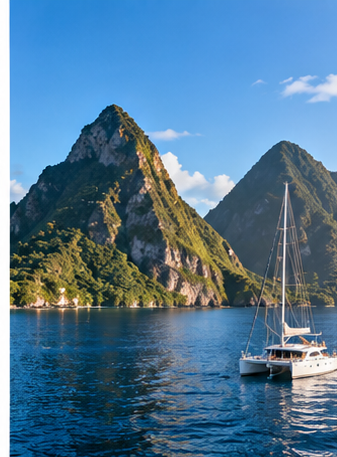
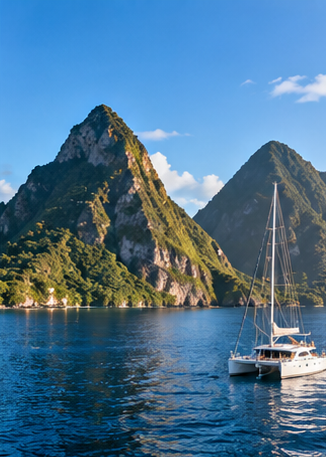
Day by day: the nine route photos; DAY 04 is New Year on board
- dayPhotos point to public/images/day-01…09 with a per-photo object-position
- Trimmed the collage borders left on seven of the uploaded files (white edges, a strip of the
  neighbouring frame on days 07–09); day 04 resized from 1086×1448 (2.4 MB) to 800×1067
- DAY 04: 'Мюстик · Новый год на яхте' / 'Mustique · New Year on board', no Basil's Bar

Claude-Session: https://claude.ai/code/session_01SRdBNBJy8fbF7w3tHPZFpk

Changed region(s): [[0.0, 0.0, 0.9816, 1.0], [0.8589, 0.1532, 0.8896, 0.1838], [0.2761, 0.7046, 0.3067, 0.7352]]

diff --git a/lib/dictionaries/ru.ts b/lib/dictionaries/ru.ts
@@ -431,7 +431,7 @@ export const ru: Dictionary = {
         { place: 'Мартиника · Ле-Марен', date: '28 декабря 2026', text: 'Прибытие на Мартинику, размещение на яхте в марине Ле-Марен. Знакомство с экипажем и приветственный ужин в ресторане.' },
         { place: 'Сент-Люсия · Родни-Бей и Питоны', date: '29 декабря 2026', text: 'Первый морской переход к Сент-Люсии. Остановка в Родни-Бей, затем продолжение путешествия к знаменитым вулканическим вершинам Питонам.' },
         { place: 'Сент-Винсент · Валлилабу', date: '30 декабря 2026', text: 'Переход к острову Сент-Винсент. Прибытие в живописную бухту Валлилабу, окружённую тропической зеленью.' },
-        { place: 'Мюстик · Basil’s Bar', date: '31 декабря 2026', text: 'Прибытие на остров Мюстик. Свободное время на острове и встреча Нового года в знаменитом Basil’s Bar.' },
+        { place: 'Мюстик · Новый год на яхте', date: '31 декабря 2026', text: 'Встречаем Новый год на борту катамарана в атмосфере тропического праздника. Игристое, тёплый карибский вечер и незабываемые моменты в кругу близких по духу людей.' },
         { place: 'Мюстик → Тобаго-Кейс', date: '1 января 2027', text: 'Начало нового года на Мюстике. После обеда — морской переход к островам Тобаго-Кейс, известным своими бирюзовыми лагунами.' },
         { place: 'Тобаго-Кейс', date: '2 января 2027', text: 'Полный свободный день среди небольших островов, белоснежных пляжей и прозрачных вод Карибского моря. Отдых и знакомство с природой архипелага.' },
         { place: 'Сент-Винсент · Валлилабу', date: '3 января 2027', text: 'Обратный переход к Сент-Винсенту. Возвращение в бухту Валлилабу и отдых после морского перехода.' },

diff --git a/lib/caribbean.ts b/lib/caribbean.ts
@@ -20,20 +20,20 @@ export const routeMapImage: { src: string; width: number; height: number } | nul
 }
 
 /**
- * Photos of the day cards, in day order (`caribbean.days.items`). Temporary shots from the site
- * matched to each stop's mood (the same place keeps the same photo); `null` shows a neutral slot
- * until a photo of that location is added. Replace a path here: the component does not change.
+ * Photos of the day cards, in day order (`caribbean.days.items`). `position` is the CSS
+ * object-position that keeps the subject in frame when the card crops the photo (square on desktop,
+ * portrait on phones). Replace a file or a path here: the component does not change.
  */
-export const dayPhotos: (string | null)[] = [
-  '/images/caribbean-hero.png', // 1 Martinique · Le Marin
-  null, // 2 Saint Lucia · Rodney Bay and The Pitons
-  '/images/hero-sailing.png', // 3 Saint Vincent · Wallilabou Bay (the passage)
-  '/images/gallery-deck.png', // 4 Mustique · New Year's Eve
-  '/images/gallery-helm.png', // 5 Mustique → Tobago Cays (the passage)
-  '/images/gallery-reef.png', // 6 Tobago Cays
-  '/images/hero-sailing.png', // 7 Saint Vincent · Wallilabou Bay
-  null, // 8 Saint Lucia · The Pitons
-  '/images/caribbean-hero.png', // 9 Martinique · Le Marin
+export const dayPhotos: ({ src: string; position?: string } | null)[] = [
+  { src: '/images/day-01-martinique-le-marin.png', position: '50% 55%' },
+  { src: '/images/day-02-saint-lucia-pitons.png', position: '50% 40%' },
+  { src: '/images/day-03-saint-vincent-wallilabou.png', position: '50% 60%' },
+  { src: '/images/day-04-mustique-new-year.png', position: '50% 45%' },
+  { src: '/images/day-05-tobago-cays.png', position: '50% 35%' },
+  { src: '/images/day-06-tobago-cays-turtle.png', position: '50% 50%' },
+  { src: '/images/day-07-wallilabou-bay.png', position: '50% 60%' },
+  { src: '/images/day-08-saint-lucia-pitons.png', position: '50% 40%' },
+  { src: '/images/day-09-martinique-return.png', position: '50% 55%' },
 ]
 
 /**

diff --git a/lib/dictionaries/en.ts b/lib/dictionaries/en.ts
@@ -431,7 +431,7 @@ export const en = {
         { place: 'Martinique · Le Marin', date: 'December 28, 2026', text: 'Arrival in Martinique and settling in on board at Le Marin marina. Meet the crew, then a welcome dinner at a restaurant.' },
         { place: 'Saint Lucia · Rodney Bay and The Pitons', date: 'December 29, 2026', text: 'The first passage, to Saint Lucia. A stop at Rodney Bay, then on towards the famous volcanic peaks of The Pitons.' },
         { place: 'Saint Vincent · Wallilabou Bay', date: 'December 30, 2026', text: 'A passage to Saint Vincent, arriving at picturesque Wallilabou Bay, framed by tropical greenery.' },
-        { place: 'Mustique · Basil’s Bar', date: 'December 31, 2026', text: 'Arrival on Mustique. Free time on the island, then New Year’s Eve at the legendary Basil’s Bar.' },
+        { place: 'Mustique · New Year on board', date: 'December 31, 2026', text: 'We welcome the New Year on board the catamaran, in the spirit of a tropical celebration: sparkling wine, a warm Caribbean evening and unforgettable moments among kindred spirits.' },
         { place: 'Mustique → Tobago Cays', date: 'January 1, 2027', text: 'The first morning of the year on Mustique. After lunch, a passage to the Tobago Cays, known for their turquoise lagoons.' },
         { place: 'Tobago Cays', date: 'January 2, 2027', text: 'A whole free day among small islands, white beaches and the clear water of the Caribbean Sea: time to rest and explore the archipelago’s nature.' },
         { place: 'Saint Vincent · Wallilabou Bay', date: 'January 3, 2027', text: 'The passage back to Saint Vincent. Return to Wallilabou Bay and a relaxed evening after the crossing.' },

diff --git a/components/journey/day-by-day.tsx b/components/journey/day-by-day.tsx
@@ -49,12 +49,13 @@ export function DayByDay({ dict }: { dict: Dictionary['caribbean']['days'] }) {
                   <div className="relative aspect-[2/3] overflow-hidden rounded-xl bg-foreground/[0.04] sm:aspect-[5/6] lg:aspect-square">
                     {photo ? (
                       <Image
-                        src={photo}
+                        src={photo.src}
                         alt={item.place}
                         fill
                         draggable={false}
                         sizes="(min-width: 1280px) 400px, (min-width: 1024px) 34vw, (min-width: 640px) 55vw, 75vw"
                         className="object-cover"
+                        style={{ objectPosition: photo.position }}
                       />
                     ) : (
                       <div className="absolute inset-0 flex flex-col items-center justify-center gap-3 text-xs uppercase tracking-[0.14em] text-muted-foreground">
